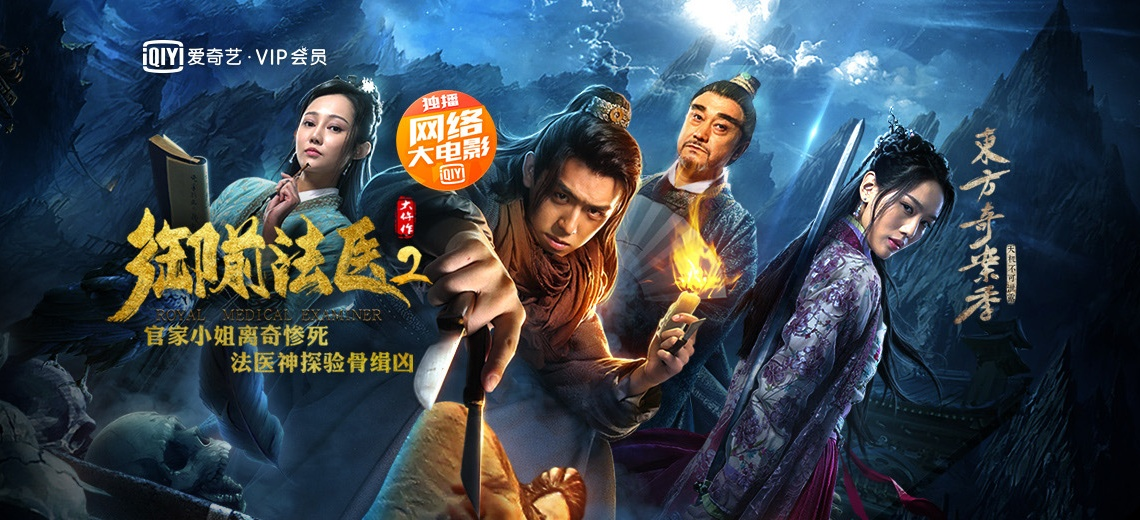
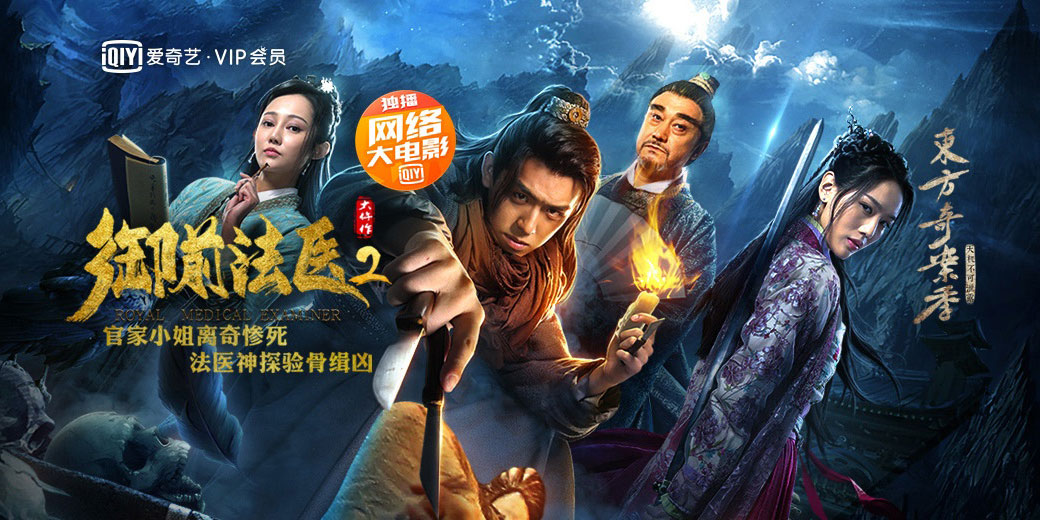
vip update

diff --git a/d0905(m-aqiyi)/css/vip.css b/d0905(m-aqiyi)/css/vip.css
@@ -20,8 +20,20 @@ header #down ul{width: 160%; display:flex;justify-content: space-evenly;margin-t
 header #down ul li{height: 30px;font-size:16px;color:#D0D0D0;line-height: 30px;}
 header #down ul li.down-on{color:#E1BA8B;font-weight: bold;border-bottom:2px solid #E1BA8B;}
 
-#banner{width: 100%;}
-#banner img{width: 100%;}
+#banner{width: 100%;height:220px; border-bottom: 1px solid #E2E2E2;}
+#banner a img{width: 100%;margin-bottom: 10px;}
+#banner span:nth-of-type(1){float: left;font-size: 14px;line-height: 30px;}
+#banner span img{width: 30px;vertical-align: middle;}
+#banner span:nth-of-type(2){float: right;margin-right:10px;}
+#banner span a{width: 50px;height: 30px;background: #EECD98;display:inline-block;line-height: 30px;text-align:center;border-radius: 20px;margin:0 5px;color: #835C26;}
+
+/* movie */
+#movie{width: 100%;}
+#movie .movie-top{width: 96%;height: 30px;padding: 2%;}
+#movie .movie-top h2{font-size: 20px;float: left;}
+#movie .movie-top span{float: right;line-height: 30px;}
+#movie .movie-top span img{width: 20px;vertical-align: middle;}
+
 
 
 

diff --git a/d0905(m-aqiyi)/vip.html b/d0905(m-aqiyi)/vip.html
@@ -32,8 +32,18 @@
     </header>
 
     <div id="banner">
-        <a href="#"><img src="images/vip-banner2.jpg" /></a> 
+        <a href="#"><img id="img" src="images/vip-banner2.jpg" /></a> 
+        <span><img src="images/vip-banner-tx.jpg"> 开通VIP看大片</span>
+        <span><a href="#">开通</a><i>|</i><a href="#">奖励</a></span>
     </div>
+
+    <div id="movie">
+        <div class="movie-top">
+            <h2>电影榜</h2>            
+            <span>壹周观影<img src="images/chat-up2.jpg"></span>
+        </div>
+    </div>
+    
 
 
 

diff --git a/d0905(m-aqiyi)/js/vip.js b/d0905(m-aqiyi)/js/vip.js
@@ -25,6 +25,18 @@
     }
 })();
 
+/* banner */
+(function(){
+    let oImg = document.getElementById('img');
+    let oImgs = ['images/vip-banner2.jpg','images/vip-banner3.jpg','images/vip-banner4.jpg','images/vip-banner5.jpg',];
+    let i = 0;
+    function show(){
+        oImg.src = oImgs[i];
+        i++;
+        if(i==oImgs.length) i=0;
+    }
+    setInterval(show,1000);
+})();
 
 (function(){/* footer */
     var oLi=document.getElementById("foot").getElementsByTagName("li");
